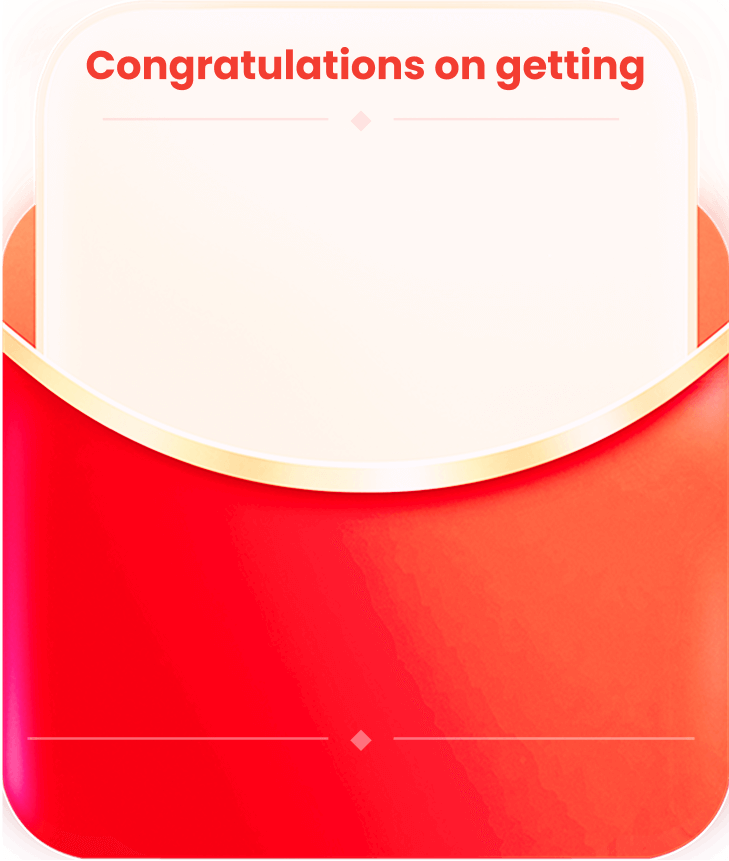
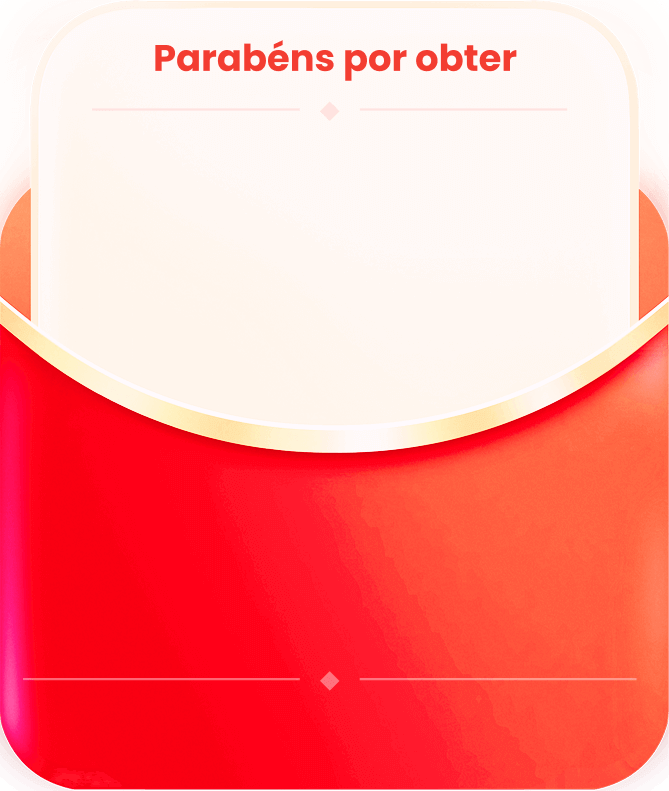
fix: [br2] Update translation

diff --git a/br2-static-v1/src/i18n/pt.js b/br2-static-v1/src/i18n/pt.js
@@ -797,7 +797,7 @@ export default {
     received: "Recebido",
     time_left: "tempo restante",
     go_withdraw_now: "Levantar agora",
-    rs: "RS",
+    rs: "R$",
     youGet: "Você obtém",
     withdraw_money_over_rs: "Levantar dinheiro acima de R$",
     claim_now: "Reivindicar agora",

diff --git a/br2-static-v1/src/i18n/en.js b/br2-static-v1/src/i18n/en.js
@@ -785,7 +785,7 @@ export default {
     received: "Received",
     time_left: "time left",
     go_withdraw_now: "Go withdraw now",
-    rs: "RS",
+    rs: "R$",
     youGet: "You get",
     withdraw_money_over_rs: "Withdraw money over R$",
     claim_now: "Claim now",

diff --git a/br2-static-v1/src/components/hotpromo/spin-lucky-wheel/EnvelopeStage.vue b/br2-static-v1/src/components/hotpromo/spin-lucky-wheel/EnvelopeStage.vue
@@ -290,6 +290,7 @@ onUnmounted(() => {
     .footer {
       position: absolute;
       -webkit-user-drag: none;
+      pointer-events: none;
 
       &.dragon {
         left: 50%;
